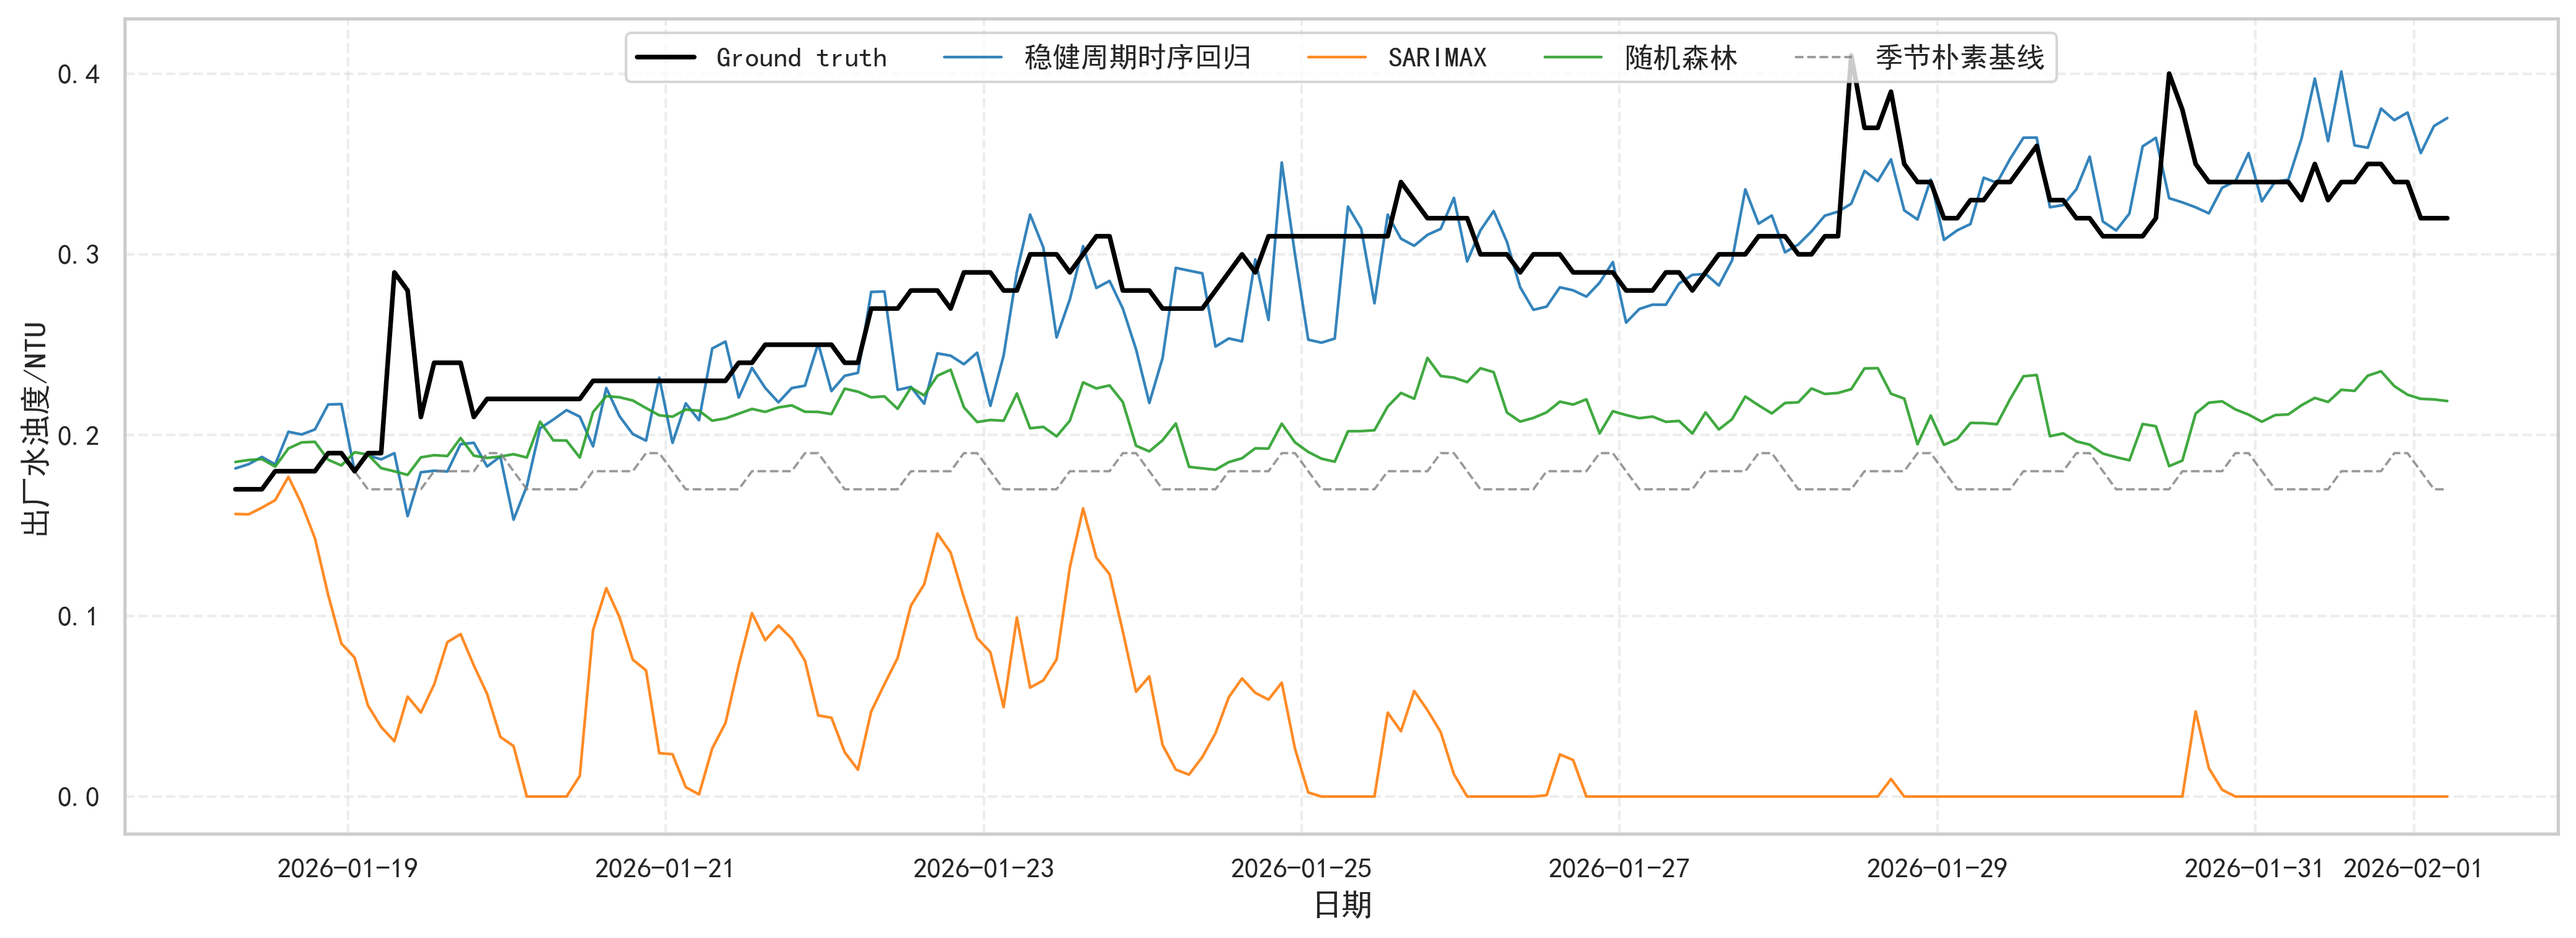
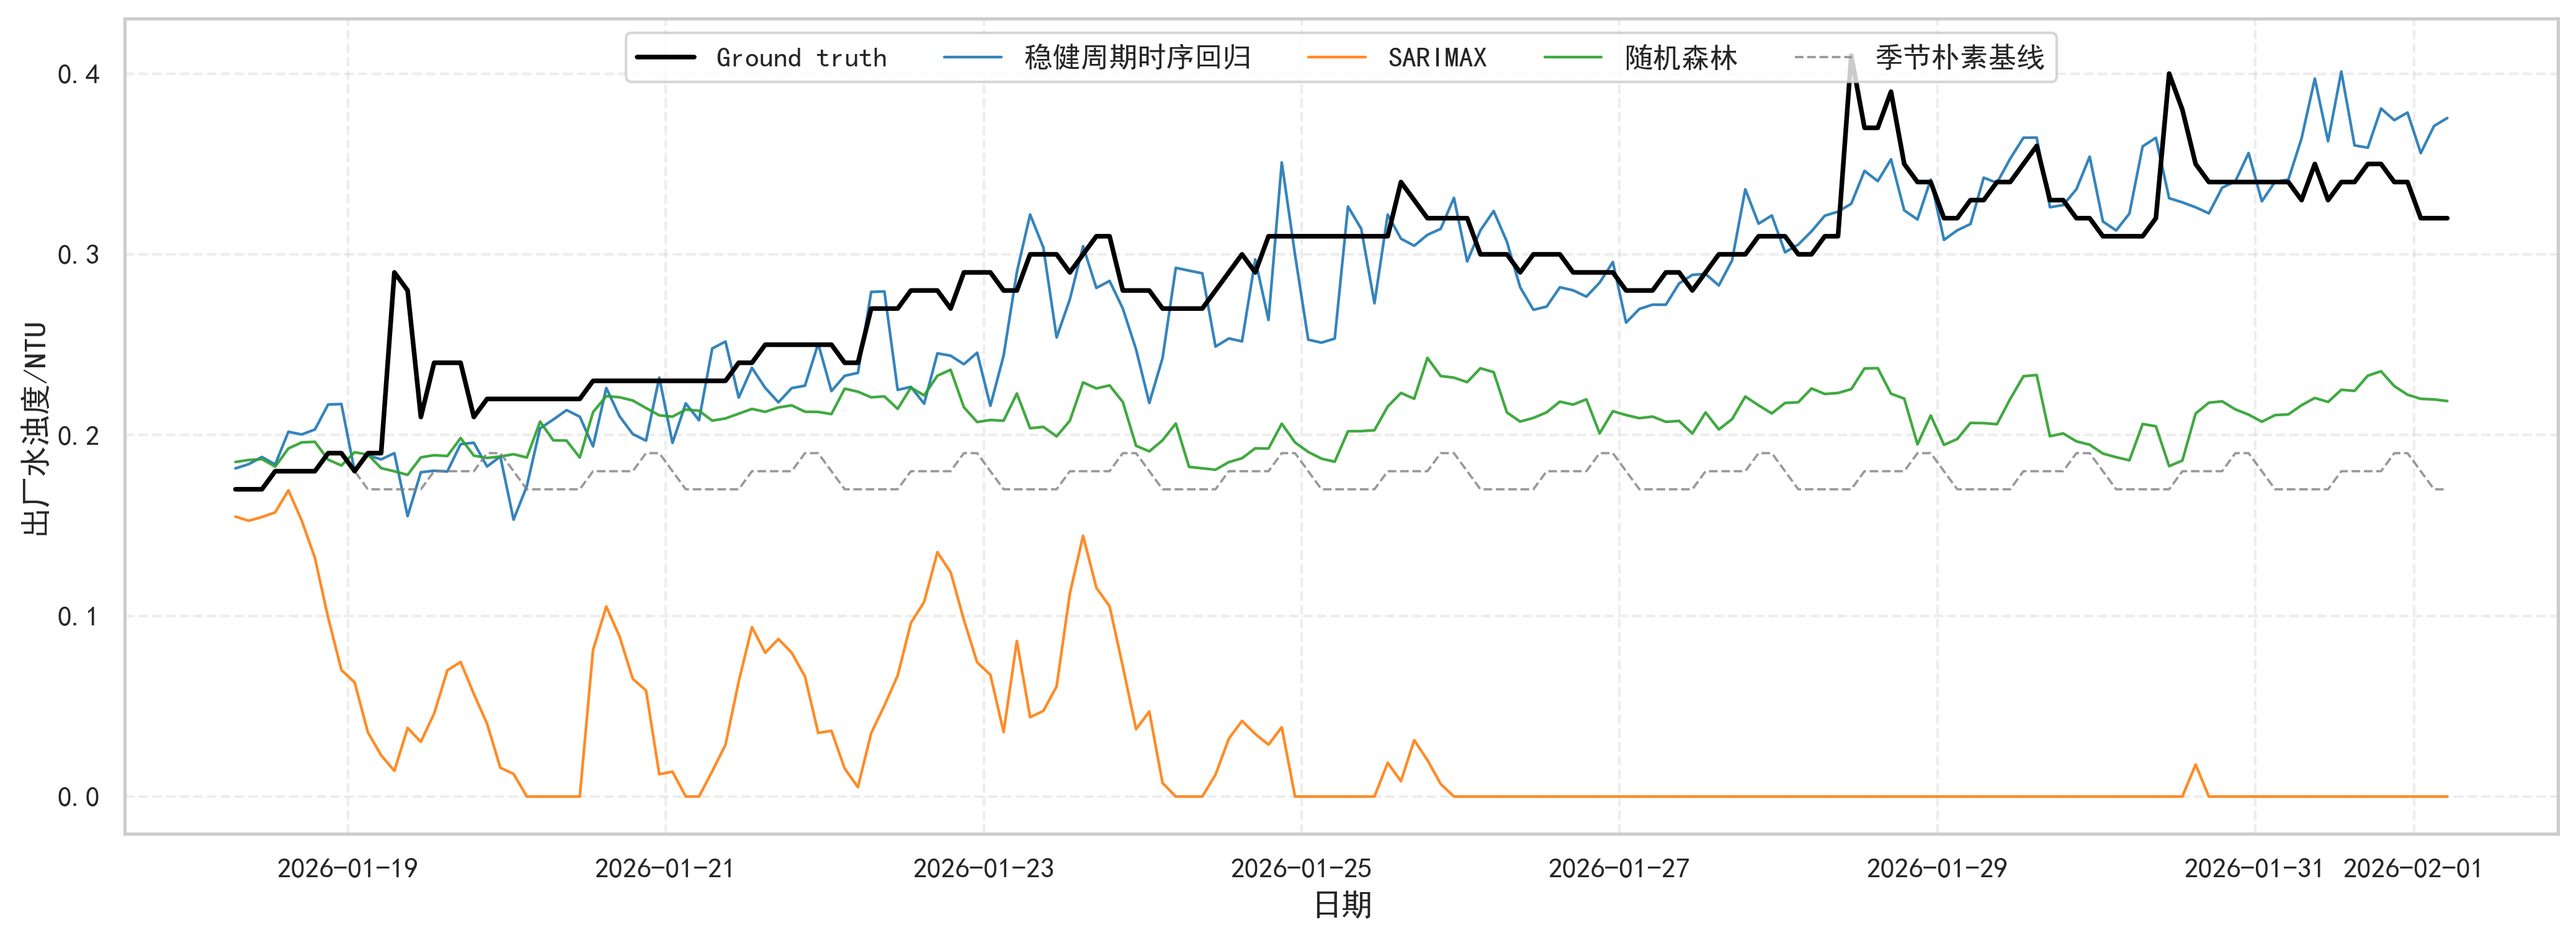
change code

diff --git a/src/prob1.py b/src/prob1.py
@@ -58,18 +58,12 @@ TIME_FEATURES = [
 DYNAMIC_LAGS = (1, 2, 6, 12, 84)
 ROLLING_WINDOWS = (12, 84)
 def chronological_split_by_day(frame, test_days=TEST_DAYS):
-    if test_days < 1:
-        raise ValueError("test_days 必须为正整数")
     ordered = frame.sort_values("timestamp").copy()
     operating_days = pd.to_datetime(ordered["operating_date"]).dt.normalize()
     unique_days = operating_days.drop_duplicates().sort_values().to_numpy()
-    if len(unique_days) <= test_days:
-        raise ValueError("可用运行日不足，无法划分训练集和测试集")
     test_start = pd.Timestamp(unique_days[-test_days])
     is_test = operating_days.ge(test_start)
     return ordered.loc[~is_test].copy(), ordered.loc[is_test].copy()
-
-
 def add_model_features(data):
     frame = data.copy()
     frame["timestamp"] = pd.to_datetime(frame["timestamp"])
@@ -85,12 +79,8 @@ def add_model_features(data):
     frame["day_of_year_cos"] = np.cos(2 * np.pi * day_of_year / 365.25)
     frame["time_trend"] = elapsed_hours / 24
     return frame.sort_values("timestamp").reset_index(drop=True)
-
-
 def quantitative_feature_screening(frame, feature_columns, top_n=8, random_state=2026):
     columns = [column for column in feature_columns if frame[column].notna().sum() >= 30]
-    if not columns:
-        raise ValueError("没有足够数据用于因素筛选")
     x = frame[columns]
     y = frame["treated_ntu"].astype(float)
     transformed_x = SimpleImputer(strategy="median").fit_transform(x)
@@ -132,19 +122,9 @@ def quantitative_feature_screening(frame, feature_columns, top_n=8, random_state
     result["综合排名"] = np.arange(1, len(result) + 1)
     result["是否入选"] = result["综合排名"].le(min(top_n, len(result)))
     return result
-def fit_and_predict_models(
-    train,
-    test,
-    feature_columns=None,
-    random_state=2026,
-):
-    # 拟合两个白盒时序模型和一个非线性模型
+def fit_and_predict_models(train,test,feature_columns=None,random_state=2026):
     if feature_columns is None:
         feature_columns = MODEL_FEATURES
-    if train["treated_ntu"].isna().any():
-        raise ValueError("训练集的出厂水浊度不能包含缺失值")
-    if test.empty:
-        raise ValueError("预测集不能为空")
     ordered_train = train.sort_values("timestamp").copy()
     ordered_test = test.sort_values("timestamp").copy()
     x_train = ordered_train[feature_columns]
@@ -191,16 +171,9 @@ def fit_and_predict_models(
         "随机森林": np.maximum(forest_model.predict(x_test), 0),
     }
     training_fits = {
-        "稳健周期时序回归": (
-            y_train.to_numpy(), np.maximum(robust_model.predict(x_train), 0)
-        ),
-        "SARIMAX": (
-            y_train.iloc[12:].to_numpy(),
-            np.maximum(np.asarray(sarimax_model.fittedvalues)[12:], 0),
-        ),
-        "随机森林": (
-            y_train.to_numpy(), np.maximum(forest_model.predict(x_train), 0)
-        ),
+        "稳健周期时序回归": (y_train.to_numpy(), np.maximum(robust_model.predict(x_train), 0)),
+        "SARIMAX": (y_train.iloc[12:].to_numpy(),np.maximum(np.asarray(sarimax_model.fittedvalues)[12:], 0)),
+        "随机森林": (y_train.to_numpy(), np.maximum(forest_model.predict(x_train), 0)),
     }
     artifacts = {
         "稳健周期时序回归": robust_model,
@@ -235,9 +208,7 @@ def evaluate_predictions(evaluation,predictions,artifacts,baseline,evaluation_na
             rows.append(_metric_row(model_name, "训练集", actual, fitted))
     evaluation_actual = evaluation["treated_ntu"].to_numpy(dtype=float)
     for model_name, predicted in predictions.items():
-        rows.append(_metric_row(
-            model_name, evaluation_name, evaluation_actual, predicted
-        ))
+        rows.append(_metric_row(model_name, evaluation_name, evaluation_actual, predicted))
     rows.append(_metric_row(
         "季节朴素基线",
         evaluation_name,
@@ -353,14 +324,10 @@ def run_modeling(data):
     forecast_output = build_forecast_output(future, selected, future_predictions)
     robust_coefficients, _, _ = model_interpretation_tables(final_artifacts)
 
-    final_screening.to_csv(OUTPUT_DIR / "表2_定量因素筛选.csv", index=False, encoding="utf-8")
-    metrics.to_csv(OUTPUT_DIR / "表3_模型评价.csv", index=False, encoding="utf-8")
+    final_screening.to_csv(OUTPUT_DIR / "表2_定量因素筛选.csv", index=False, encoding="utf")
+    metrics.to_csv(OUTPUT_DIR / "表3_模型评价.csv", index=False, encoding="utf")
     forecast_output.to_excel(OUTPUT_DIR / "表4_预测结果.xlsx", index=False)
-    robust_coefficients.to_csv(
-        OUTPUT_DIR / "表5_稳健周期回归公式系数.csv",
-        index=False,
-        encoding="utf-8",
-    )
+    robust_coefficients.to_csv(OUTPUT_DIR / "表5_稳健周期回归公式系数.csv",index=False,encoding="utf")
     return metrics, forecast_output
 def main():
     set_chinese_style()

diff --git a/src/plot/plot1.py b/src/plot/plot1.py
@@ -1,3 +1,5 @@
+import os
+import sys
 from pathlib import Path
 
 import matplotlib.pyplot as plt
@@ -7,7 +9,12 @@ import seaborn as sns
 from scipy.stats import shapiro, norm
 from statsmodels.graphics.tsaplots import plot_acf
 from statsmodels.tsa.seasonal import STL
-from ..utils import label, load_clean_data, regular_series, save_figure, set_chinese_style
+
+_PKG_PARENT = os.path.dirname(os.path.dirname(os.path.abspath(__file__)))
+if _PKG_PARENT not in sys.path:
+    sys.path.insert(0, _PKG_PARENT)
+
+from utils import label, load_clean_data, regular_series, save_figure, set_chinese_style
 OUTPUT_DIR = Path(__file__).resolve().parents[1] / "outputs" / "01_问题1"
 CANDIDATES = [
     "river_level",
@@ -45,7 +52,7 @@ def plot_treated_ntu_series(data):
     ax.plot(daily.index, daily["max"], color="red", linewidth=0.8, alpha=0.75, label="日最大值")
     ax.axhline(1, color="black", linestyle="--", linewidth=1, label="1 NTU限值")
     ax.set_xlabel("日期")
-    ax.set_ylabel("出厂水浊度/NTU")
+    ax.set_ylabel("出厂水浊度")
     ax.grid(True, linestyle="--", alpha=0.4)
     ax.legend(frameon=True, ncol=3)
     save_figure(fig, OUTPUT_DIR, "图1_出厂水浊度日序列")
@@ -56,10 +63,10 @@ def plot_monthly_and_seasonal_distribution(data):
     fig, axes = plt.subplots(1, 2, figsize=(13, 4.8))
     sns.boxplot(data=frame, x="月份", y="treated_ntu", color="blue", showfliers=False, ax=axes[0])
     axes[0].set_xlabel("月份")
-    axes[0].set_ylabel("出厂水浊度/NTU")
+    axes[0].set_ylabel("出厂水浊度")
     sns.violinplot(data=frame, x="季节分组", y="treated_ntu", color="green", inner="quart", cut=0, ax=axes[1])
     axes[1].set_xlabel("季节分组")
-    axes[1].set_ylabel("出厂水浊度/NTU")
+    axes[1].set_ylabel("出厂水浊度")
     save_figure(fig, OUTPUT_DIR, "图2_月份与季节分组分布")
 def plot_distribution_check(data,candidates=None,distribution_filename="图3_关键变量分布检验（3x3）",qq_filename="图4_关键变量QQ图（3x3）",color="steelblue",):
     if candidates is None:
@@ -181,7 +188,7 @@ def plot_main_scatter(data, columns):
             ax=ax,
         )
         ax.set_xlabel(label(column))
-        ax.set_ylabel("出厂水浊度/NTU")
+        ax.set_ylabel("出厂水浊度")
     save_figure(fig, OUTPUT_DIR, "图9_主要变量与出厂水浊度关系")
 def plot_periodicity(data):
     series = regular_series(data, "treated_ntu")

diff --git a/src/plot/plot2.py b/src/plot/plot2.py
@@ -1,14 +1,22 @@
+import os
+import sys
+
 import matplotlib.pyplot as plt
 import numpy as np
 import pandas as pd
 import seaborn as sns
 
-from ..prob2 import prepare_dynamic_frame, lag_correlations, TARGET, OUTPUT_DIR, FREQUENCY_HOURS
-from ..utils import label, load_clean_data, save_figure, set_chinese_style
-def create_dynamic_overview_figure(data):
+# 让脚本以"直接执行"方式运行时也能找到同级的 prob2 / utils
+_PKG_PARENT = os.path.dirname(os.path.dirname(os.path.abspath(__file__)))
+if _PKG_PARENT not in sys.path:
+    sys.path.insert(0, _PKG_PARENT)
+
+from prob2 import prepare_dynamic_frame, lag_correlations, TARGET, OUTPUT_DIR, FREQUENCY_HOURS
+from utils import label, load_clean_data, save_figure, set_chinese_style
+def plot_dynamic_overview(data):
     columns = ["raw_water_ntu", "raw_water_ph", "raw_water_flow", TARGET]
     daily = data.set_index("timestamp")[columns].resample("D").median()
-    fig, axes = plt.subplots(2, 2, figsize=(13, 8.2), sharex=True)
+    fig, axes = plt.subplots(2, 2, figsize=(13, 8.2))
     colors = sns.color_palette("tab10", len(columns))
     for ax, column, color in zip(axes.ravel(), columns, colors):
         ax.plot(
@@ -20,9 +28,6 @@ def create_dynamic_overview_figure(data):
         ax.set_xlabel("日期")
         ax.set_ylabel(label(column))
         ax.grid(True, linestyle="--", alpha=0.4)
-    return fig
-def plot_dynamic_overview(data):
-    fig = create_dynamic_overview_figure(data)
     save_figure(fig, OUTPUT_DIR, "图1_输入与滤后水浊度动态变化")
 def plot_lag_correlations(result):
     fig, ax = plt.subplots(figsize=(10.5, 5.2))
@@ -35,7 +40,6 @@ def plot_lag_correlations(result):
             linewidth=1.2,
             label=label(column),
         )
-    ax.axhline(0, color="#666666", linewidth=0.8)
     ax.set_xlabel("输入变量领先滤后水浊度的小时数")
     ax.set_ylabel("24小时季节差分后的相关系数")
     ax.grid(True, linestyle="--", alpha=0.4)
@@ -63,7 +67,7 @@ def create_delayed_scatter_figure(frame, best_lags):
             ax=ax,
         )
         ax.set_xlabel(f"{label(column)}（领先{lag_steps * FREQUENCY_HOURS}小时）")
-        ax.set_ylabel("滤后水浊度/NTU")
+        ax.set_ylabel("滤后水浊度")
     return fig
 def plot_delayed_scatter(frame, best_lags):
     fig = create_delayed_scatter_figure(frame, best_lags)

diff --git a/src/utils.py b/src/utils.py
@@ -80,13 +80,13 @@ MONTHS = {
 VARIABLE_LABELS = {
     "river_level": "河水水位",
     "raw_water_flow": "原水流量",
-    "raw_water_ntu": "原水浊度/NTU",
+    "raw_water_ntu": "原水浊度",
     "raw_water_color": "原水色度",
     "raw_water_ph": "原水pH",
-    "filtered_ntu": "滤后水浊度/NTU",
+    "filtered_ntu": "滤后水浊度",
     "clear_well_level": "清水池水位",
     "treated_ph": "处理后水pH",
-    "treated_ntu": "出厂水浊度/NTU",
+    "treated_ntu": "出厂水浊度",
     "treated_color": "处理后水色度",
     "chlorine_residual": "余氯",
     "alum_feed_rate": "矾投加流量",

diff --git a/src/data_preprocessing.py b/src/data_preprocessing.py
@@ -3,14 +3,10 @@ import re
 
 import numpy as np
 import pandas as pd
-
-from utils import (FULL_FIELDS, SHORT_2025_FIELDS, NUMERIC_COLUMNS,
-                   find_month_from_name, excel_serial_to_date, ROOT, CLEAN_DATA)
-
+from utils import (FULL_FIELDS, SHORT_2025_FIELDS, NUMERIC_COLUMNS,find_month_from_name, excel_serial_to_date, ROOT, CLEAN_DATA)
 DATA_DIR = ROOT / "附件"
 FULL_2025_FIELDS = ["date_raw"] + FULL_FIELDS
 TARGET_COLUMNS = ["filtered_ntu", "treated_ntu"]
-
 def repair_2025_date(value, file_month):
     if pd.isna(value):
         return pd.NaT
